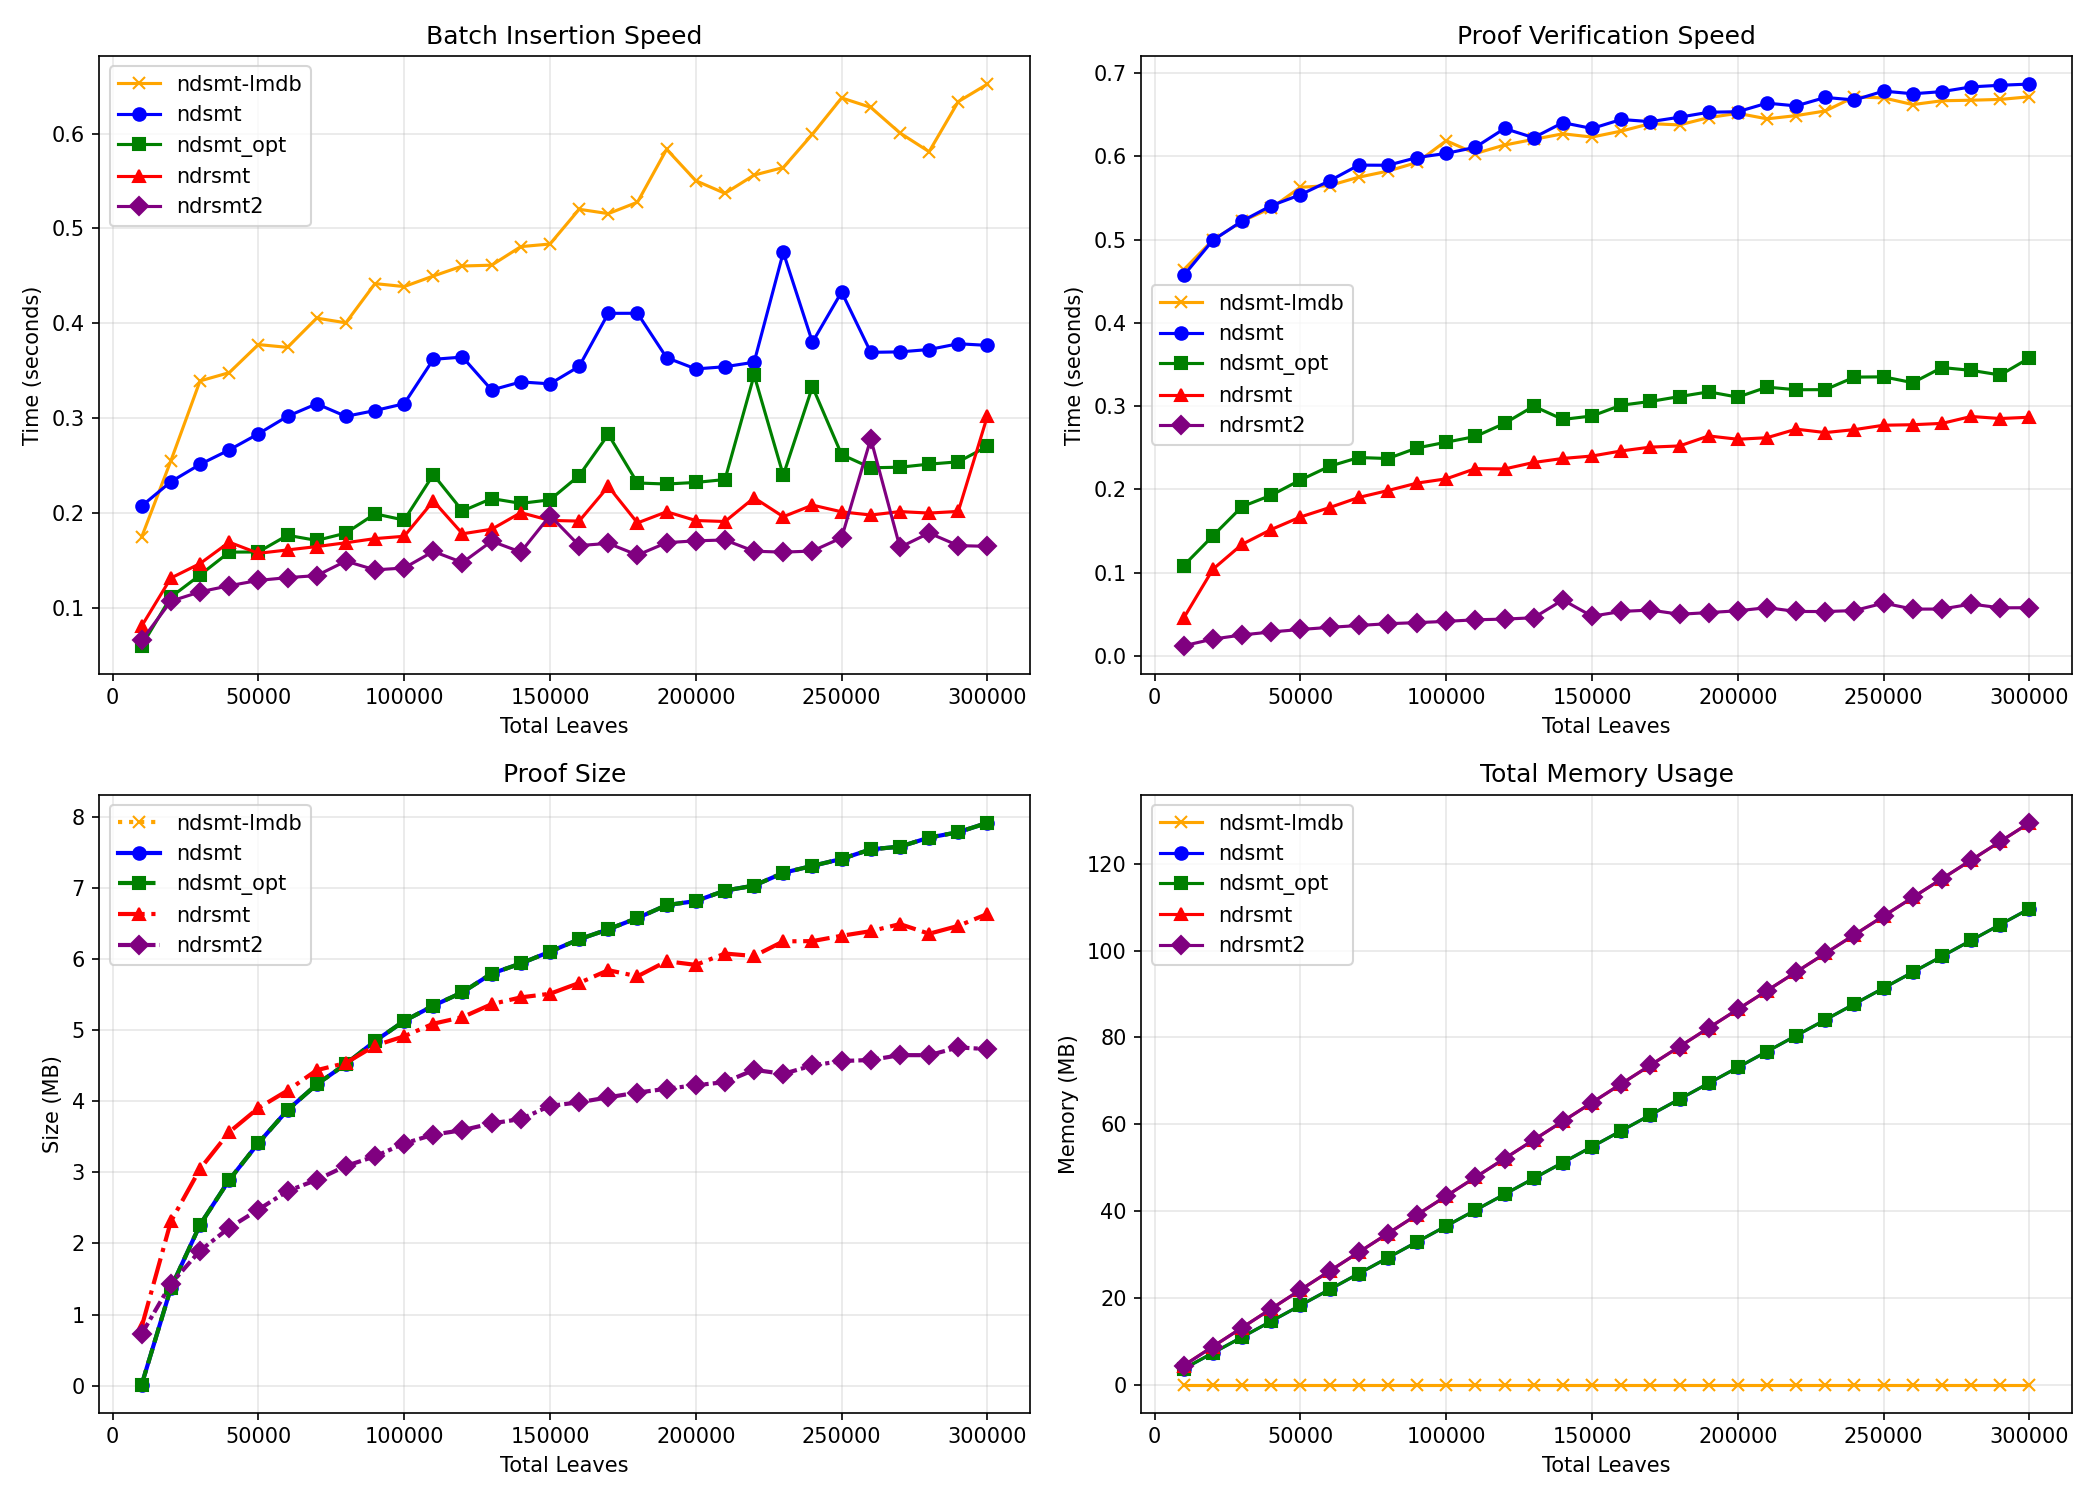
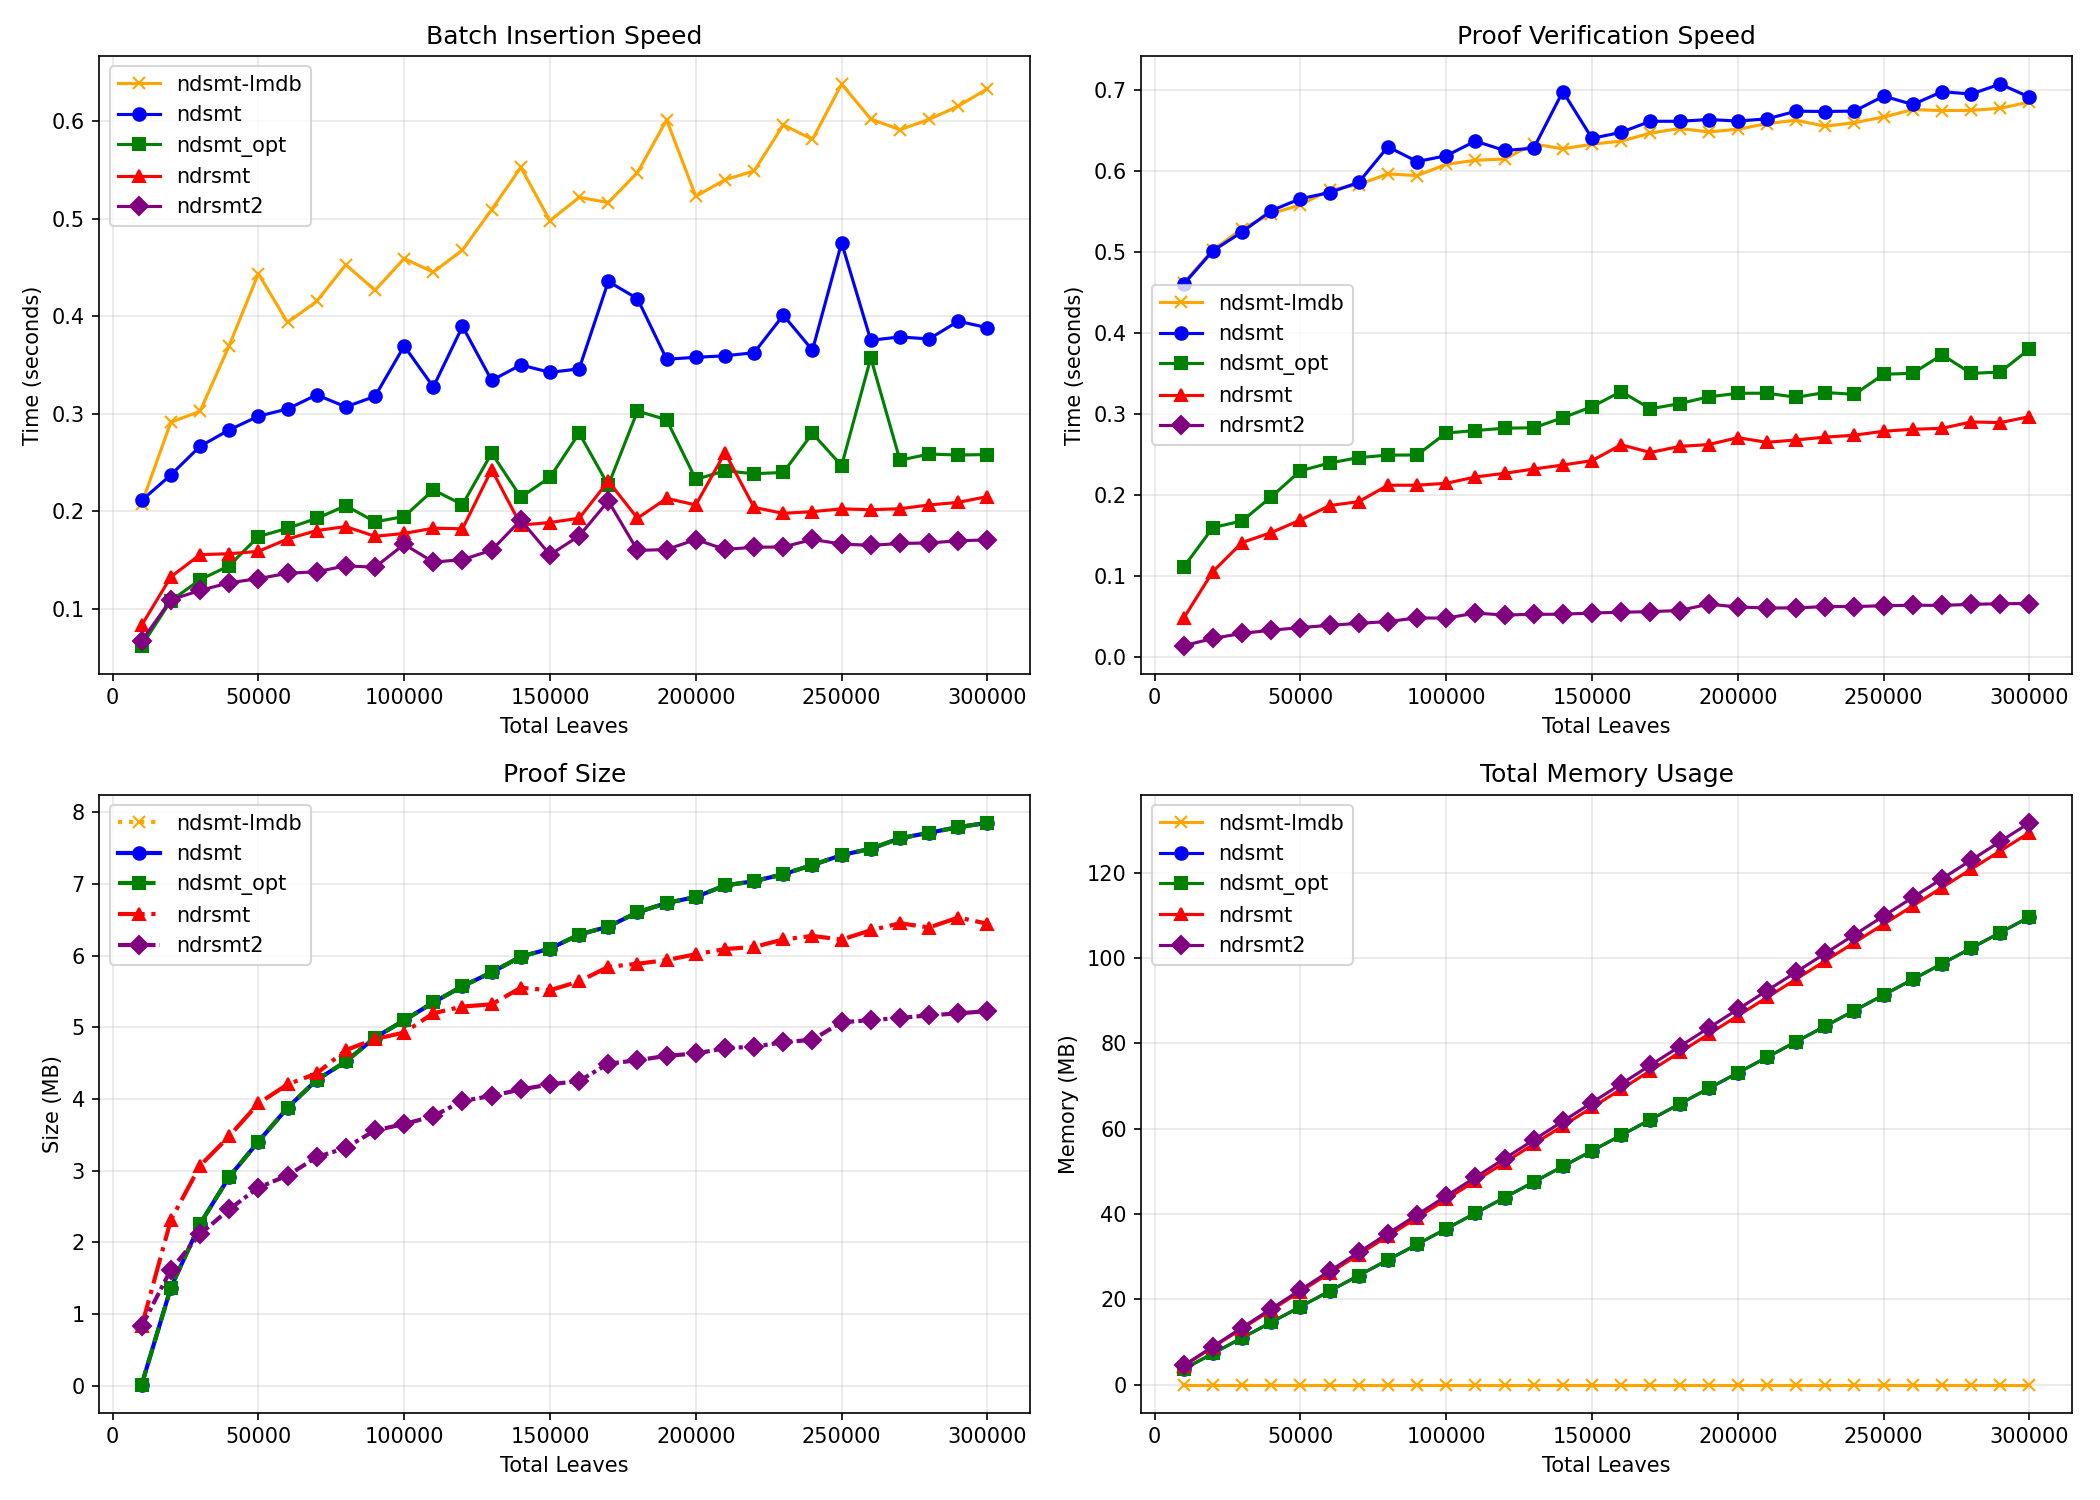
lock internal nodes to their depth

diff --git a/ndrsmt2.py b/ndrsmt2.py
@@ -1,14 +1,17 @@
 # Radix Sparse Merkle Tree v2 (RSMT2) with Consistency Proofs
 #
 # Leaf-anchored topology: each leaf hashes the full 256-bit key, making
-# leaves the spatial anchors. Internal nodes hash only their children:
-#   H_node(lh, rh) = SHA256(0x01 || lh || rh)
-#   H_leaf(key, value) = SHA256(0x00 || key_32B || value)
+# leaves the spatial anchors. Internal nodes hash their children and their
+# own split-bit depth:
+#   H_node(lh, rh, depth) = SHA256(0x01 || depth_2B || lh || rh)
+#   H_leaf(key, value)    = SHA256(0x00 || key_32B  || value)
 #
-# Because neither leaf nor node hashes depend on the tree's edge structure
-# (path / common prefix), inserting a new key only creates new hashes for
-# the new leaf and new internal nodes. Pre-existing node hashes are strictly
-# read-only -- splitting an edge above them does not change their hash.
+# "depth" is the absolute bit position at which the node branches (its
+# split bit in inclusion proof). It does not encode the path / common prefix.
+# Inserting a new key only creates new hashes for the new leaf and new internal nodes.
+# Pre-existing node hashes are strictly read-only -- splitting an edge
+# above them does not change their split-bit depth, so their hash is
+# unaffected.
 #
 # Internal nodes always have exactly two children (radix tree invariant:
 # nodes are only created at bifurcation points). This avoids the single-
@@ -21,7 +24,7 @@
 #
 # Proof format (flat opcode stream from pre-order traversal):
 #   'S'   Unchanged subtree.   Stream: ['S', hash].
-#   'N'   Branch node.         Stream: ['N']. Two children follow (left, right).
+#   'N'   Branch node.         Stream: ['N', depth]. Two children follow (left, right).
 #   'L'   New leaf inserted.   Stream: ['L', key].
 #
 # No BL (border leaf) or BNS (border node shortened) opcodes are needed.
@@ -34,8 +37,8 @@
 #   'N': eval left --> (lh_0, lh_1), eval right --> (rh_0, rh_1)
 #        h_0: both null --> null
 #             exactly one null --> pass-through (the non-null hash)
-#             both non-null --> H_node(lh_0, rh_0)
-#        h_1: H_node(lh_1, rh_1)
+#             both non-null --> H_node(lh_0, rh_0, depth)
+#        h_1: H_node(lh_1, rh_1, depth)
 #   'L': pop key, look up value from B
 #        --> (null, H_leaf(key, value))
 #
@@ -48,6 +51,8 @@
 # - L keys are matched against the verifier's own batch; values cannot be faked.
 # - The N structure must simultaneously reconstruct both ρ_0 and ρ_1 from
 #   collision-resistant hashes, binding the topology cryptographically.
+# - Internal node hashes commit to the split-bit depth, preventing an attacker
+#   from presenting a valid subtree hash at a different level in an inclusion proof.
 # - Pre-existing leaves hash the full key (absolute anchor); their hashes
 #   never change regardless of tree restructuring, preventing silent deletion.
 
@@ -64,7 +69,8 @@
 #   assert current == root
 
 # Possible optimization we're postponing for now:
-# Do not provide explicit inclusion batch B to verifier, instead do
+# Do not provide explicit inclusion batch B to consistency proof verifier, instead
+# embed the values to proof by modifying the rule:
 #   'L'   New leaf inserted.   Stream: ['L', key, value].
 
 import hashlib
@@ -78,12 +84,12 @@ KEY_BYTES = 32  # 256-bit keys
 EMPTY = None
 
 def hash_leaf(key, value):
-    """SHA256(0x00 || key_32B || value) -- position-independent leaf hash."""
+    """SHA256(0x00 || key_32B || value) --  leaf hash."""
     return hashlib.sha256(b'\x00' + key.to_bytes(KEY_BYTES, 'big') + value).digest()
 
-def hash_node(lh, rh):
-    """SHA256(0x01 || lh || rh) -- children-only internal hash."""
-    return hashlib.sha256(b'\x01' + lh + rh).digest()
+def hash_node(lh, rh, depth):
+    """SHA256(0x01 || node_depth_2B || lh || rh) -- depth-tagged internal node hash."""
+    return hashlib.sha256(b'\x01' + depth.to_bytes(2, 'big') + lh + rh).digest()
 
 # ---------------------------------------------------------------------------
 # Path utilities (for tree navigation only, not hashing)
@@ -113,19 +119,20 @@ class LeafBranch:
 
 
 class NodeBranch:
-    """Internal node: path (navigation) + left/right children.
+    """Internal node: path (navigation) + left/right children + split depth.
     Always has exactly two children (radix tree invariant)."""
-    __slots__ = ['path', 'left', 'right', '_hash']
+    __slots__ = ['path', 'left', 'right', 'depth', '_hash']
 
-    def __init__(self, path, left, right):
+    def __init__(self, path, left, right, depth):
         self.path  = path
         self.left  = left
         self.right = right
+        self.depth = depth  # absolute bit position of the branch (split bit)
         self._hash = None
 
     def get_hash(self):
         if self._hash is None:
-            self._hash = hash_node(self.left.get_hash(), self.right.get_hash())
+            self._hash = hash_node(self.left.get_hash(), self.right.get_hash(), self.depth)
         return self._hash
 
 # ---------------------------------------------------------------------------
@@ -282,10 +289,10 @@ class SparseMerkleTree:
         lb = [(k, v) for k, v in batch if not ((k >> split) & 1)]
         rb = [(k, v) for k, v in batch if      (k >> split) & 1 ]
 
-        proof_out.append('N')
+        proof_out.extend(['N', split])
         ln = self._build_batch_proof(lb, split, proof_out, frozen)
         rn = self._build_batch_proof(rb, split, proof_out, frozen)
-        return NodeBranch(cp, ln, rn)
+        return NodeBranch(cp, ln, rn, split)
 
     # ------------------------------------------------------------------
     # Internal: insert batch into existing subtree with consistency proof
@@ -334,7 +341,7 @@ class SparseMerkleTree:
         batch_left  = [(k, v) for k, v in batch if not ((k >> split) & 1)]
         batch_right = [(k, v) for k, v in batch if      (k >> split) & 1 ]
 
-        proof_out.append('N')
+        proof_out.extend(['N', split])
         new_left  = self._insert_proof(node.left,  batch_left,  split, proof_out)
         new_right = self._insert_proof(node.right, batch_right, split, proof_out)
 
@@ -363,7 +370,7 @@ class SparseMerkleTree:
         batch_left  = [(k, v) for k, v in batch if not ((k >> new_split) & 1)]
         batch_right = [(k, v) for k, v in batch if      (k >> new_split) & 1 ]
 
-        proof_out.append('N')
+        proof_out.extend(['N', new_split])
         if old_dir == 0:
             new_left  = self._insert_proof(node,  batch_left,  new_split, proof_out)
             new_right = self._insert_proof(None,  batch_right, new_split, proof_out)
@@ -371,7 +378,7 @@ class SparseMerkleTree:
             new_left  = self._insert_proof(None,  batch_left,  new_split, proof_out)
             new_right = self._insert_proof(node,  batch_right, new_split, proof_out)
 
-        return NodeBranch(new_cp, new_left, new_right)
+        return NodeBranch(new_cp, new_left, new_right, new_split)
 
 
 # ---------------------------------------------------------------------------
@@ -390,6 +397,7 @@ def synchronized_proof_eval(proof_iterator, batch_dict):
         return h, h
 
     if tag == 'N':
+        depth = next(proof_iterator)
         lh0, lh1 = synchronized_proof_eval(proof_iterator, batch_dict)
         rh0, rh1 = synchronized_proof_eval(proof_iterator, batch_dict)
 
@@ -401,10 +409,10 @@ def synchronized_proof_eval(proof_iterator, batch_dict):
         elif rh0 is None:
             h0 = lh0
         else:
-            h0 = hash_node(lh0, rh0)
+            h0 = hash_node(lh0, rh0, depth)
 
         # h_1: always combine both children
-        h1 = hash_node(lh1, rh1)
+        h1 = hash_node(lh1, rh1, depth)
         return h0, h1
 
     if tag == 'L':
@@ -479,9 +487,9 @@ def verify_proof(key, value, bitmap, siblings, root, depth):
     for idx, i in enumerate(bits):
         sibling = siblings[idx]
         if (key >> i) & 1:
-            current = hash_node(sibling, current)
+            current = hash_node(sibling, current, i)
         else:
-            current = hash_node(current, sibling)
+            current = hash_node(current, sibling, i)
 
     return current == root
 